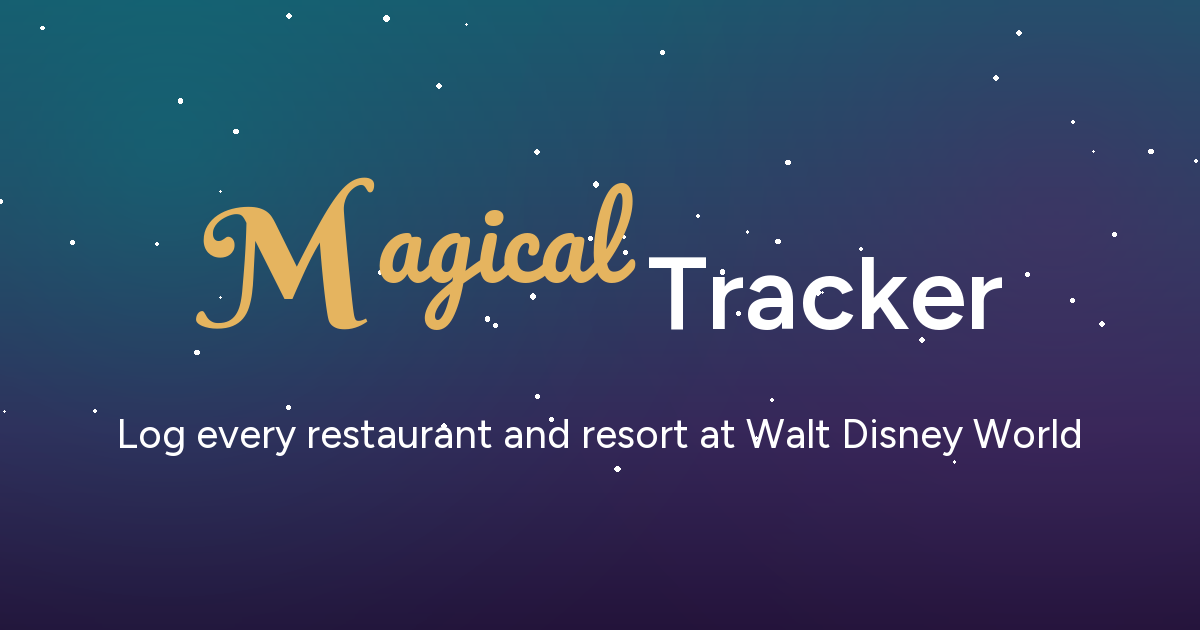
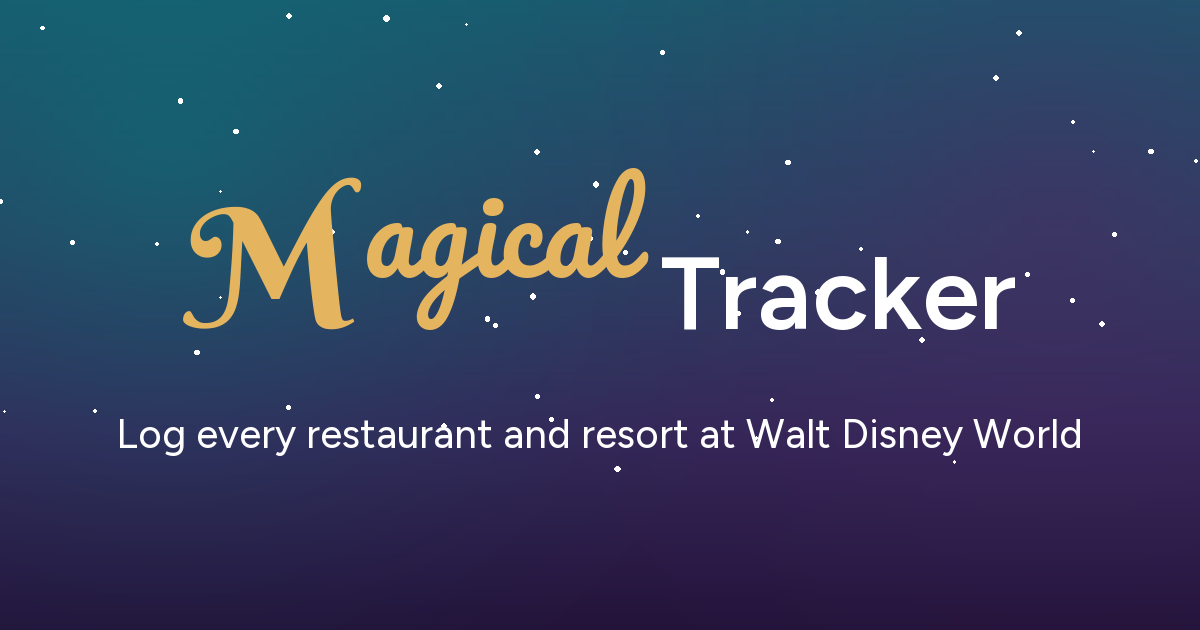
Match Pacifico's x-height to Figtree in the wordmark
At an equal font-size Pacifico's lowercase a and c render 95 units tall against
Figtree's 106 and 105, so "agical" sat visibly short of "Tracker". Scaling it
1.111x lines the bowls up to within a pixel; the l and the ascenders still
overshoot, which is correct for a script.

Parts are now sized in em off the wrapper rather than as three hand-computed
rem values, so the ratios are legible and one size prop drives everything.

Same correction applied to the OG card generator.

Changed region(s): [[0.1542, 0.2714, 0.8633, 0.5429]]

diff --git a/web/components/wordmark.tsx b/web/components/wordmark.tsx
@@ -2,24 +2,30 @@
  * The wordmark. Defined once and used everywhere it appears, so the header,
  * footer and any future artwork can never drift apart.
  *
- * Three parts:
- *   M       Berkshire Swash, 1.6x — an upright swashed initial
- *   agical  Pacifico, base size
- *   Tracker Figtree semibold, base size
+ * Three parts, sized in `em` off the wrapper so the ratios stay explicit:
  *
- * "agical" and "Tracker" share a font-size by design. They will not look
- * identically tall — Figtree's cap height per em exceeds Pacifico's x-height —
- * and that difference is what keeps the script from reading as a mistake.
+ *   M       Berkshire Swash  1.60em   upright swashed initial
+ *   agical  Pacifico         1.11em   x-height matched to Figtree
+ *   Tracker Figtree semibold 1.00em
  *
- * Everything is baseline-aligned via `items-baseline`; the small horizontal
- * nudges below close the gaps the three faces leave in their side bearings.
+ * The 1.11 is measured, not eyeballed. At the same font-size Pacifico's
+ * lowercase a and c render 95 units tall against Figtree's 106 and 105, so
+ * matching font-sizes leaves the script visibly short. Scaling by 1.11 lines
+ * the bowls up; the l and the ascenders still overshoot, which is correct for
+ * a script and is what stops it reading as a mismatched paste.
+ *
+ * If either face is ever swapped, re-measure rather than reusing this number.
  */
 
+/** Wrapper font-size. Every part is an em multiple of this. */
 const SIZES = {
-  sm: { base: "text-[1.02rem]", initial: "text-[1.63rem]" },
-  md: { base: "text-[1.22rem]", initial: "text-[1.95rem]" },
-  lg: { base: "text-[2rem]", initial: "text-[3.2rem]" },
+  sm: "1.02rem",
+  md: "1.22rem",
+  lg: "2rem",
 } as const;
+
+const INITIAL_EM = 1.6;
+const SCRIPT_EM = 1.111;
 
 export function Wordmark({
   size = "sm",
@@ -33,19 +39,28 @@ export function Wordmark({
   scriptClass?: string;
   restClass?: string;
 }) {
-  const s = SIZES[size];
   return (
     <span
       className={`inline-flex items-baseline whitespace-nowrap leading-none ${className}`}
+      style={{ fontSize: SIZES[size] }}
     >
-      <span className={`font-initial ${s.initial} ${scriptClass}`}>M</span>
       <span
-        className={`font-script ${s.base} ${scriptClass}`}
-        style={{ marginLeft: "0.01em", marginRight: "0.12em" }}
+        className={`font-initial ${scriptClass}`}
+        style={{ fontSize: `${INITIAL_EM}em` }}
+      >
+        M
+      </span>
+      <span
+        className={`font-script ${scriptClass}`}
+        style={{
+          fontSize: `${SCRIPT_EM}em`,
+          marginLeft: "0.01em",
+          marginRight: "0.11em",
+        }}
       >
         agical
       </span>
-      <span className={`font-semibold tracking-tight ${s.base} ${restClass}`}>
+      <span className={`font-semibold tracking-tight ${restClass}`}>
         Tracker
       </span>
     </span>

diff --git a/AGENTS.md b/AGENTS.md
@@ -74,15 +74,20 @@ The wordmark is a three-part lockup:
 | Part | Face | Size |
 |---|---|---|
 | `M` | Berkshire Swash | 1.6x |
-| `agical` | Pacifico | base |
+| `agical` | Pacifico | 1.111x |
 | `Tracker` | Figtree semibold | base |
 
 It is defined once in `web/components/wordmark.tsx` and used everywhere it
 appears — never hand-roll it, or the header and footer drift apart.
 
-`agical` and `Tracker` share a font-size on purpose. They will not look
-identically tall, because Figtree's cap height per em exceeds Pacifico's
-x-height, and that mismatch is what keeps the script from reading as an error.
+The **1.111 is measured, not eyeballed**. At an equal font-size Pacifico's
+lowercase `a` and `c` render 95 units tall against Figtree's 106 and 105, so
+matching font-sizes leaves the script visibly short. Scaling by 1.111 lines the
+bowls up to within a pixel. The `l` and the ascenders still overshoot, which is
+correct for a script.
+
+If either face is ever swapped, **re-measure** rather than reusing the number.
+Sizes are written in `em` off the wrapper so the ratios stay readable.
 
 The **app icon, favicon and splash are the Berkshire Swash `M` alone**, in gold
 on the twilight gradient — the same initial that opens the wordmark, so the
